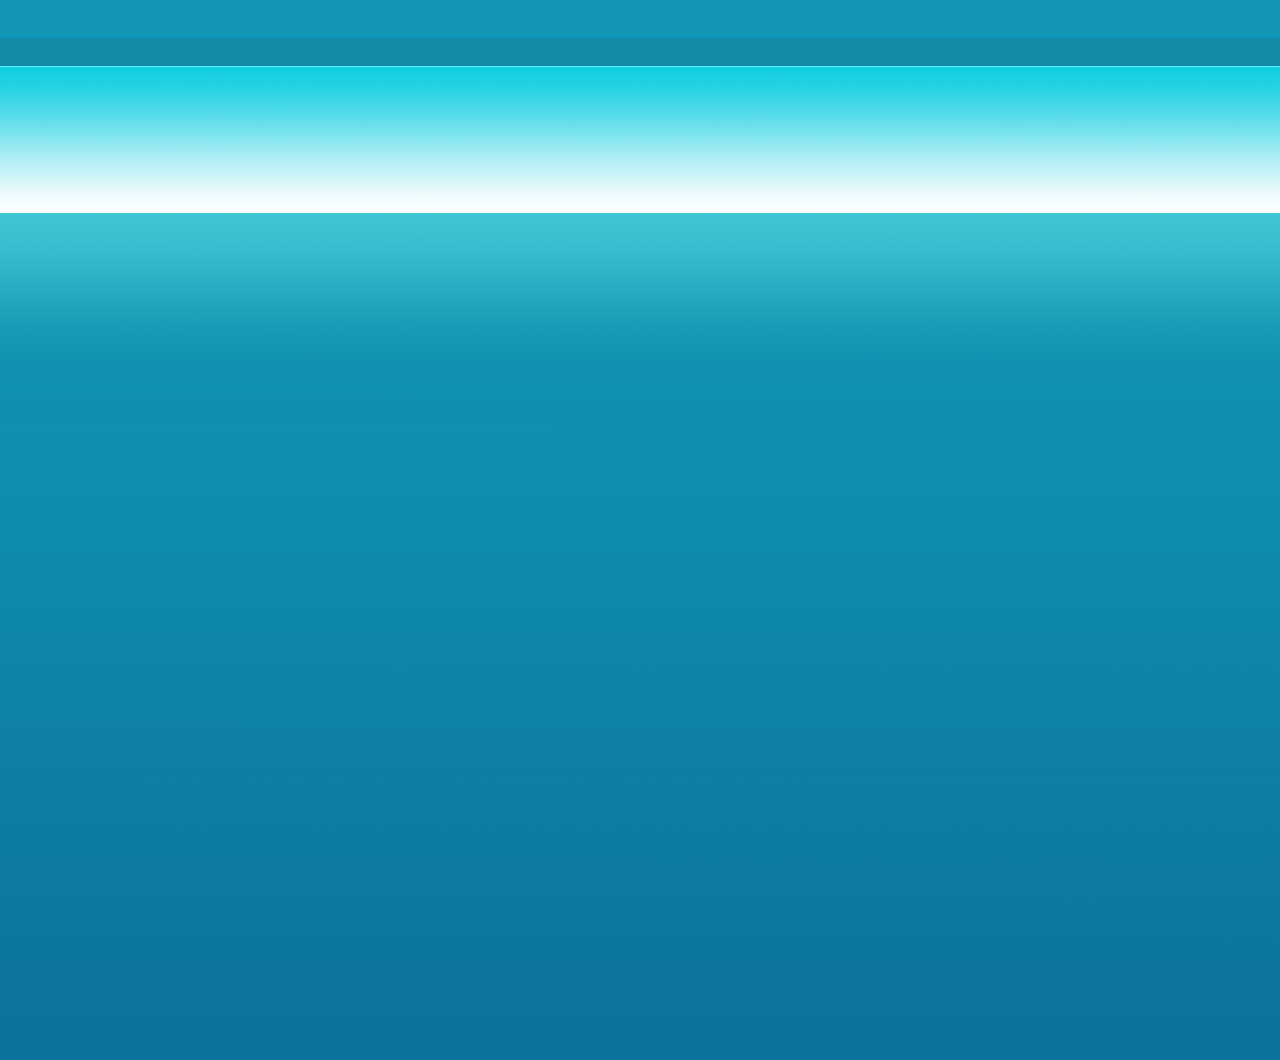
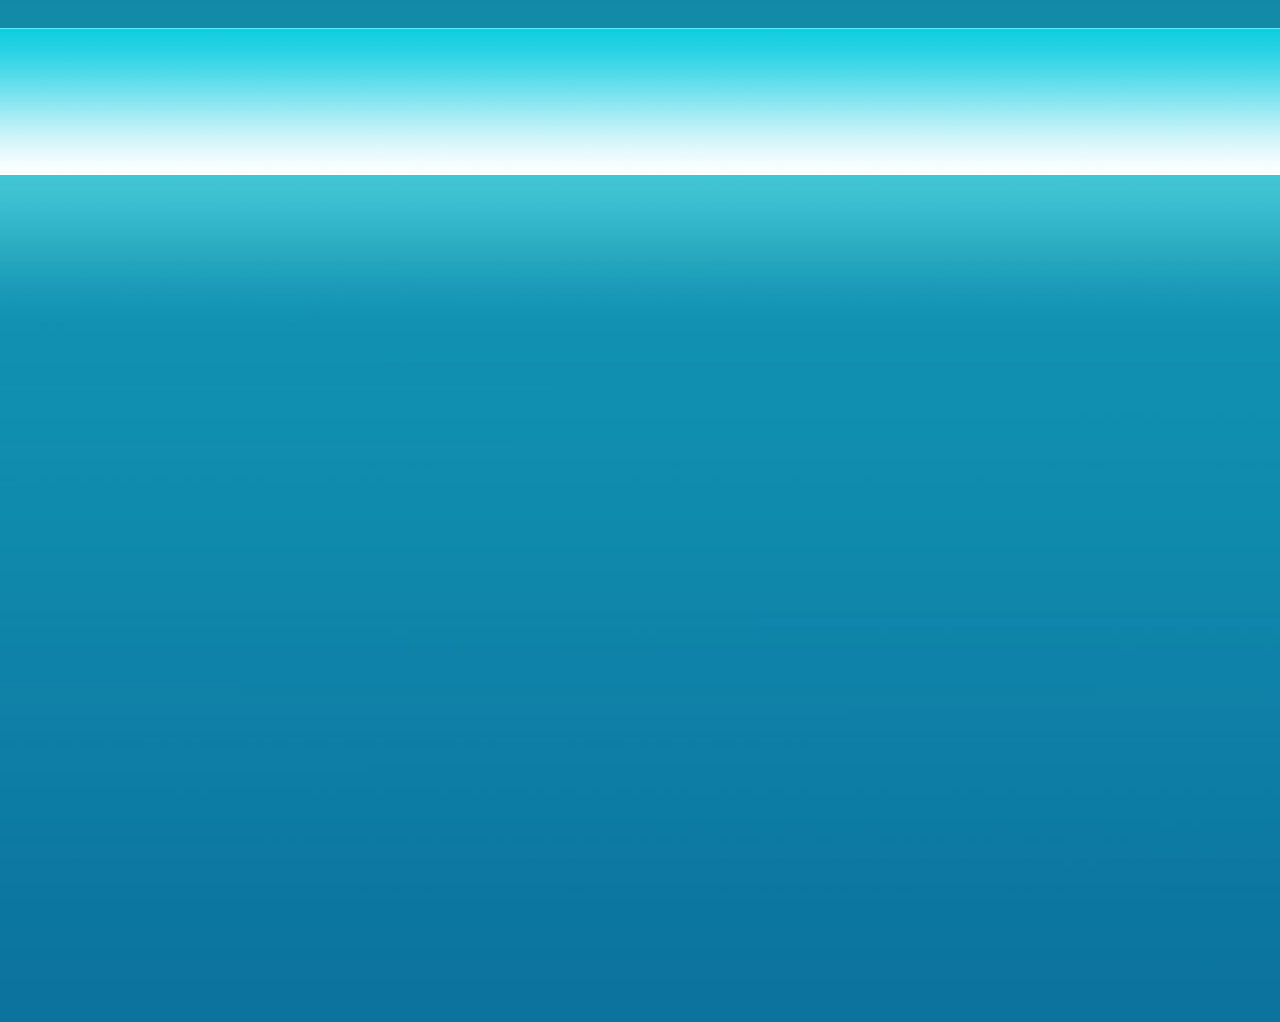
added homework 4

Changed region(s): [[0.0, 0.0303, 1.0, 0.2123]]

diff --git a/GoIT/markup/home/lesson4/css/style.css b/GoIT/markup/home/lesson4/css/style.css
@@ -10,7 +10,7 @@ body {
 .main {
 	background-image: url(../img/background.jpg);
 	width: 100%;
-	height: 1060px;
+	height: 1022px;
 	
 }
 
@@ -82,7 +82,6 @@ header ul li:last-child {
 	clear: both;
 	width: 100%;
 	border-top: 2px solid #128aa7;
-	margin-top: 2px;
 }
 
 .list {
